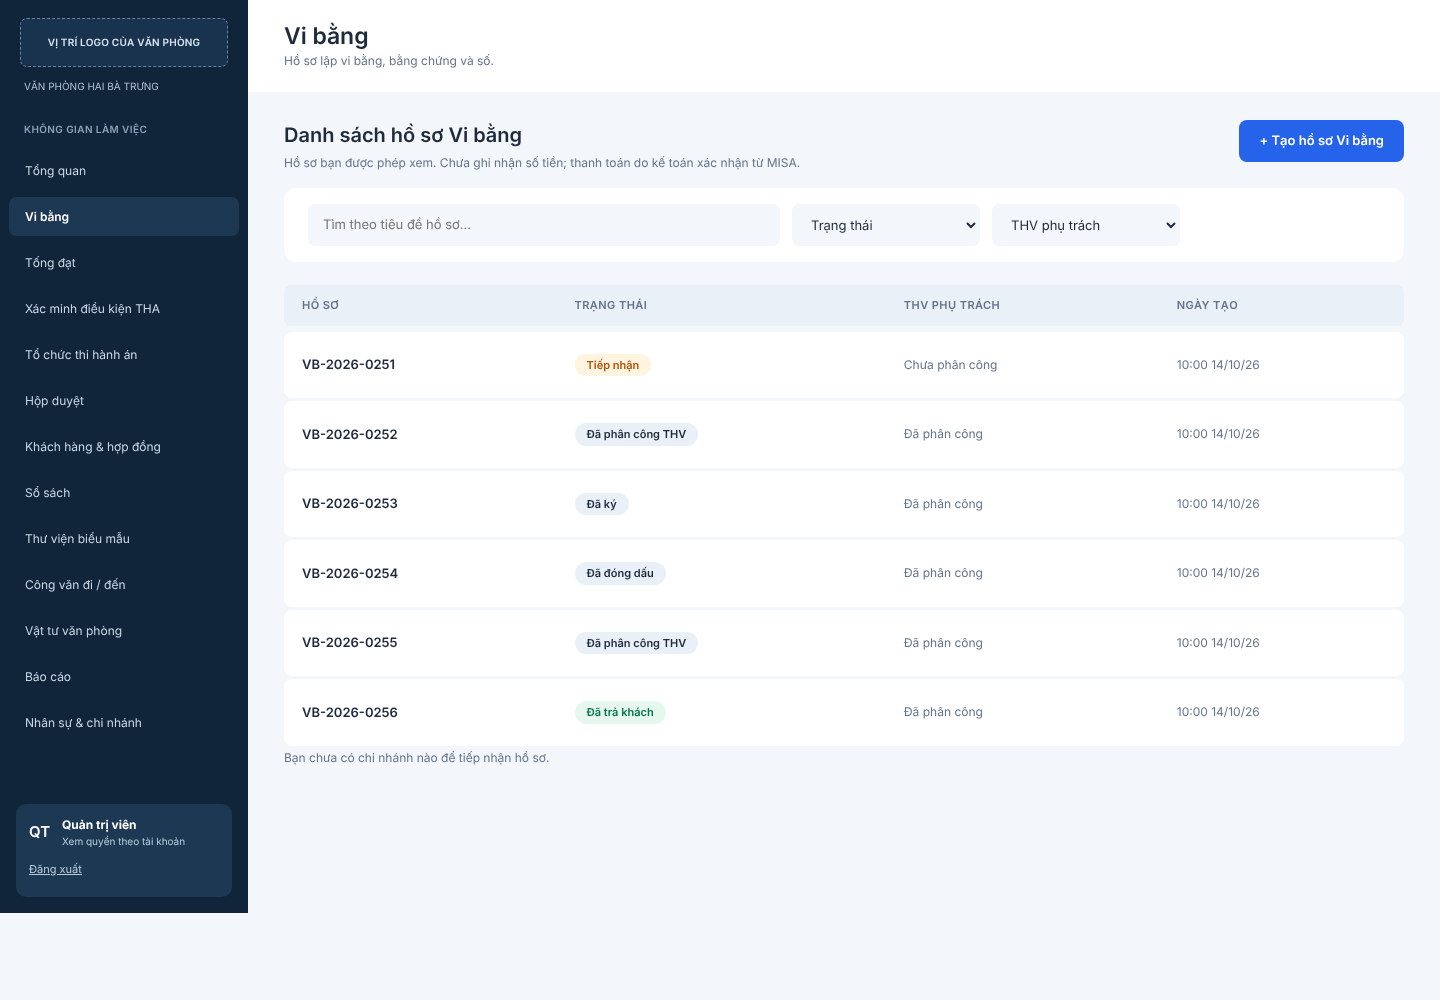
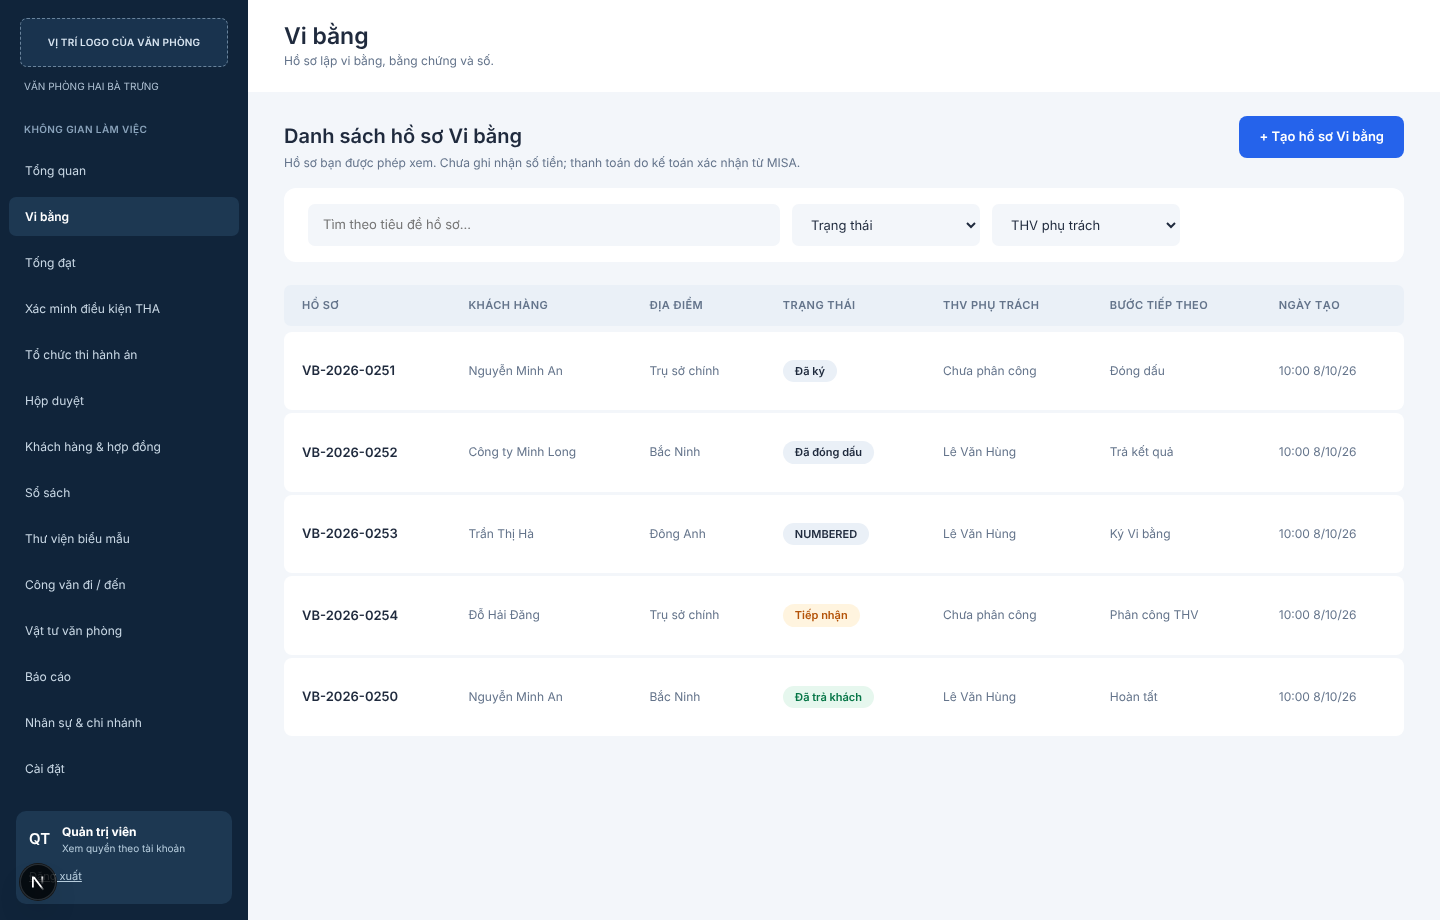
feat(web): cột khách hàng, địa điểm, bước tiếp theo ở danh sách hồ sơ và ghi người nhận bàn giao (#133)
Claude-Session: https://claude.ai/code/session_01TuayhBfCeqvzC4WVhHb6qe

diff --git a/apps/web/components/CaseTable.tsx b/apps/web/components/CaseTable.tsx
@@ -3,7 +3,7 @@
 import Link from 'next/link';
 import { useMemo, useState } from 'react';
 import type { CaseItem } from '../lib/cases';
-import { CASE_STATUS_LABEL } from '../lib/messages';
+import { CASE_STATUS_LABEL, NEXT_STEP_LABEL } from '../lib/messages';
 
 const fmt = new Intl.DateTimeFormat('vi-VN', {
   dateStyle: 'short',
@@ -20,7 +20,9 @@ export function CaseTable({ cases }: { readonly cases: readonly CaseItem[] }) {
     const needle = q.trim().toLowerCase();
     return cases.filter(
       (c) =>
-        (needle === '' || c.title.toLowerCase().includes(needle)) &&
+        (needle === '' ||
+          c.title.toLowerCase().includes(needle) ||
+          (c.customerName ?? '').toLowerCase().includes(needle)) &&
         (status === '' || c.status === status) &&
         (thv === '' || (thv === 'assigned') === (c.responsibleThvUserId !== null)),
     );
@@ -29,10 +31,10 @@ export function CaseTable({ cases }: { readonly cases: readonly CaseItem[] }) {
     <>
       <div className="filters" role="search">
         <label className="filter-search">
-          <span className="sr-only">Tìm theo tiêu đề hồ sơ</span>
+          <span className="sr-only">Tìm theo hồ sơ hoặc khách hàng</span>
           <input
             type="search"
-            placeholder="Tìm theo tiêu đề hồ sơ..."
+            placeholder="Tìm theo hồ sơ hoặc khách hàng..."
             value={q}
             onChange={(e) => setQ(e.target.value)}
           />
@@ -69,8 +71,11 @@ export function CaseTable({ cases }: { readonly cases: readonly CaseItem[] }) {
             <thead>
               <tr>
                 <th scope="col">Hồ sơ</th>
+                <th scope="col">Khách hàng</th>
+                <th scope="col">Địa điểm</th>
                 <th scope="col">Trạng thái</th>
                 <th scope="col">THV phụ trách</th>
+                <th scope="col">Bước tiếp theo</th>
                 <th scope="col">Ngày tạo</th>
               </tr>
             </thead>
@@ -80,12 +85,17 @@ export function CaseTable({ cases }: { readonly cases: readonly CaseItem[] }) {
                   <th scope="row">
                     <Link href={`/vi-bang/${c.id}`}>{c.title}</Link>
                   </th>
+                  <td>{c.customerName ?? <span className="muted">—</span>}</td>
+                  <td>{c.branchName ?? <span className="muted">—</span>}</td>
                   <td>
                     <span className="badge" data-status={c.status}>
                       {CASE_STATUS_LABEL[c.status] ?? c.status}
                     </span>
                   </td>
-                  <td>{c.responsibleThvUserId ? 'Đã phân công' : 'Chưa phân công'}</td>
+                  <td>
+                    {c.thvLabel ?? (c.responsibleThvUserId ? 'Đã phân công' : 'Chưa phân công')}
+                  </td>
+                  <td>{c.nextStep ? (NEXT_STEP_LABEL[c.nextStep] ?? c.nextStep) : '—'}</td>
                   <td>{fmt.format(new Date(c.createdAt))}</td>
                 </tr>
               ))}

diff --git a/apps/web/app/forms.test.tsx b/apps/web/app/forms.test.tsx
@@ -388,6 +388,7 @@ describe('ReturnPanel', () => {
         progress={stampedProgress}
         roles={[]}
         contacts={[]}
+        handover={{ recipient: null, on: null }}
       />,
     );
     expect(screen.getByText('CHƯA ĐỦ ĐIỀU KIỆN TRẢ KẾT QUẢ')).toBeTruthy();
@@ -405,6 +406,7 @@ describe('ReturnPanel', () => {
         progress={{ ...stampedProgress, hasFinalScan: true }}
         roles={[]}
         contacts={[]}
+        handover={{ recipient: null, on: null }}
       />,
     );
     expect(screen.getByText('ĐỦ ĐIỀU KIỆN TRẢ KẾT QUẢ')).toBeTruthy();
@@ -416,9 +418,51 @@ describe('ReturnPanel', () => {
         progress={progressBase}
         roles={[]}
         contacts={[]}
+        handover={{ recipient: null, on: null }}
       />,
     );
     expect(screen.queryByRole('button')).toBeNull();
+  });
+});
+
+describe('Handover record', () => {
+  it('posts recipient and date, and shows a recorded handover read-only', async () => {
+    const spy = vi.spyOn(globalThis, 'fetch').mockImplementation(() => reply(200, {}));
+    render(
+      <ReturnPanel
+        caseId="c1"
+        status="STAMPED"
+        progress={stampedProgress}
+        roles={['VAN_THU']}
+        contacts={[]}
+        handover={{ recipient: null, on: null }}
+      />,
+    );
+    fireEvent.change(screen.getByLabelText('Người nhận kết quả'), {
+      target: { value: 'Nguyễn An' },
+    });
+    fireEvent.change(screen.getByLabelText('Ngày bàn giao'), { target: { value: '2026-10-16' } });
+    fireEvent.click(screen.getByRole('button', { name: 'Lưu người nhận' }));
+    await waitFor(() => expect(spy).toHaveBeenCalled());
+    const [url, init] = spy.mock.calls[0]!;
+    expect(String(url)).toBe('/api/vibang/cases/c1/handover');
+    expect(JSON.parse(String((init as RequestInit).body))).toEqual({
+      recipientName: 'Nguyễn An',
+      handedOverOn: '2026-10-16',
+    });
+    cleanup();
+    render(
+      <ReturnPanel
+        caseId="c1"
+        status="RETURNED"
+        progress={stampedProgress}
+        roles={['VAN_THU']}
+        contacts={[]}
+        handover={{ recipient: 'Nguyễn An', on: '2026-10-16' }}
+      />,
+    );
+    expect(screen.getByText('Nguyễn An')).toBeTruthy();
+    expect(screen.queryByLabelText('Ngày bàn giao')).toBeNull();
   });
 });
 

diff --git a/apps/web/components/HandoverForm.tsx b/apps/web/components/HandoverForm.tsx
@@ -1,0 +1,53 @@
+'use client';
+
+import type { FormEvent } from 'react';
+import { useCasePost } from './CasePost';
+
+interface Props {
+  readonly caseId: string;
+  readonly recipient: string | null;
+  readonly handedOverOn: string | null;
+  readonly canRecord: boolean;
+}
+
+/** Ghi người nhận và ngày bàn giao Vi bằng (một lần). Quyền và trạng thái hồ sơ do máy chủ quyết định. */
+export function HandoverForm({ caseId, recipient, handedOverOn, canRecord }: Props) {
+  const { post, error, busy } = useCasePost();
+
+  function submit(e: FormEvent<HTMLFormElement>) {
+    e.preventDefault();
+    const f = new FormData(e.currentTarget);
+    void post(`cases/${caseId}/handover`, {
+      recipientName: String(f.get('recipientName') ?? '').trim(),
+      handedOverOn: String(f.get('handedOverOn') ?? ''),
+    });
+  }
+
+  if (recipient) {
+    return (
+      <p>
+        Người nhận kết quả: <strong>{recipient}</strong>
+        {handedOverOn ? <span className="muted"> · ngày bàn giao {handedOverOn}</span> : null}
+      </p>
+    );
+  }
+  if (!canRecord) return <p className="muted">Chưa ghi nhận người nhận kết quả.</p>;
+  return (
+    <form onSubmit={submit}>
+      <label>
+        Người nhận kết quả
+        <input name="recipientName" type="text" maxLength={200} required />
+      </label>
+      <label>
+        Ngày bàn giao
+        <input name="handedOverOn" type="date" required />
+      </label>
+      <button type="submit" disabled={busy}>
+        Lưu người nhận
+      </button>
+      <p role="alert" className="error" hidden={!error}>
+        {error}
+      </p>
+    </form>
+  );
+}

diff --git a/apps/web/components/CaseStagePanels.tsx b/apps/web/components/CaseStagePanels.tsx
@@ -1,6 +1,7 @@
 'use client';
 
 import type { ContactEntry } from '../lib/contacts';
+import { HandoverForm } from './HandoverForm';
 import { ContactLog } from './ContactLog';
 import type { Progress } from './CaseSteps';
 import { useCaseApi } from './useCaseApi';
@@ -200,7 +201,11 @@ export function ReturnPanel({
   progress,
   roles,
   contacts,
-}: Props & { readonly contacts: readonly ContactEntry[] }) {
+  handover,
+}: Props & {
+  readonly contacts: readonly ContactEntry[];
+  readonly handover: { readonly recipient: string | null; readonly on: string | null };
+}) {
   const api = useCaseApi(caseId);
   const returned = status === 'RETURNED';
   const ready = !!progress.stampedAt && progress.hasFinalScan;
@@ -227,11 +232,19 @@ export function ReturnPanel({
           contacts={contacts}
           canLog={!finished && hasRole(roles, 'ADMIN', 'THV', 'THU_KY', 'VAN_THU')}
         />
-        {finished ? null : (
+        {finished && !returned ? null : (
           <section className="panel" aria-labelledby="handover-t">
             <h2 id="handover-t">Bàn giao Vi bằng</h2>
             <p className="muted">Đã liên hệ không đồng nghĩa đã bàn giao.</p>
             {progress.stampedAt ? (
+              <HandoverForm
+                caseId={caseId}
+                recipient={handover.recipient}
+                handedOverOn={handover.on}
+                canRecord={hasRole(roles, 'ADMIN', 'THV', 'VAN_THU')}
+              />
+            ) : null}
+            {progress.stampedAt && !returned ? (
               <button
                 type="button"
                 className="primary"

diff --git a/apps/web/lib/messages.ts b/apps/web/lib/messages.ts
@@ -79,6 +79,7 @@ const MESSAGES: Record<string, string> = {
   OBLIGATION_NOT_FOUND: 'Không tìm thấy nghĩa vụ.',
   OBLIGATION_FINAL: 'Nghĩa vụ đã hoàn tất, không ghi thêm được.',
   ALREADY_RECORDED: 'Nội dung này đã được ghi nhận trước đó.',
+  INVALID_HANDOVER: 'Cần nhập tên người nhận và ngày bàn giao hợp lệ.',
   INVALID_DOCUMENT: 'Tệp không hợp lệ hoặc sai định dạng cho phép.',
   FILE_TOO_LARGE: 'Tệp quá lớn (tối đa 25 MB).',
   FILE_STORE_NOT_CONFIGURED: 'Hệ thống chưa cấu hình kho lưu tệp. Liên hệ quản trị.',
@@ -112,6 +113,16 @@ export function messageFor(code: string | undefined): string {
   if (!code) return 'Không thực hiện được. Vui lòng thử lại.';
   return MESSAGES[code] ?? `Không thực hiện được (${code}).`;
 }
+
+export const NEXT_STEP_LABEL: Record<string, string> = {
+  ASSIGN_THV: 'Phân công THV',
+  MISA_NUMBER: 'Kế toán xác nhận MISA, cấp số',
+  SIGN: 'Ký Vi bằng',
+  STAMP: 'Đóng dấu',
+  RETURN: 'Trả kết quả',
+  REGISTRATION: 'Đăng ký Vi bằng',
+  DONE: 'Hoàn tất',
+};
 
 export const CASE_STATUS_LABEL: Record<string, string> = {
   INTAKE: 'Tiếp nhận',

diff --git a/apps/web/lib/cases.ts b/apps/web/lib/cases.ts
@@ -6,6 +6,12 @@ export interface CaseItem {
   readonly status: string;
   readonly createdAt: string;
   readonly responsibleThvUserId: string | null;
+  readonly branchName?: string | null;
+  /** Null với vai Kế toán (dữ liệu cá nhân). */
+  readonly customerName?: string | null;
+  readonly thvLabel?: string | null;
+  readonly numberLabel?: string | null;
+  readonly nextStep?: string | null;
 }
 
 /** Hồ sơ Vi bằng trong phạm vi quyền của người xem. `'error'` khi API không trả lời được. */

diff --git a/apps/web/lib/case-api.ts b/apps/web/lib/case-api.ts
@@ -7,6 +7,8 @@ export interface CaseDetail {
   readonly status: string;
   readonly createdAt: string;
   readonly responsibleThvUserId: string | null;
+  readonly handoverRecipient?: string | null;
+  readonly handoverOn?: string | null;
 }
 
 export async function getJson<T>(path: string, cookie: string | null): Promise<T | 404 | 'error'> {

diff --git a/apps/web/app/vi-bang/[id]/tra-ket-qua/page.tsx b/apps/web/app/vi-bang/[id]/tra-ket-qua/page.tsx
@@ -20,6 +20,7 @@ export default async function Page({ params }: { params: Promise<{ id: string }>
         progress={progress}
         roles={roles}
         contacts={typeof res === 'object' ? res.items : []}
+        handover={{ recipient: c.handoverRecipient ?? null, on: c.handoverOn ?? null }}
       />
     );
   });
